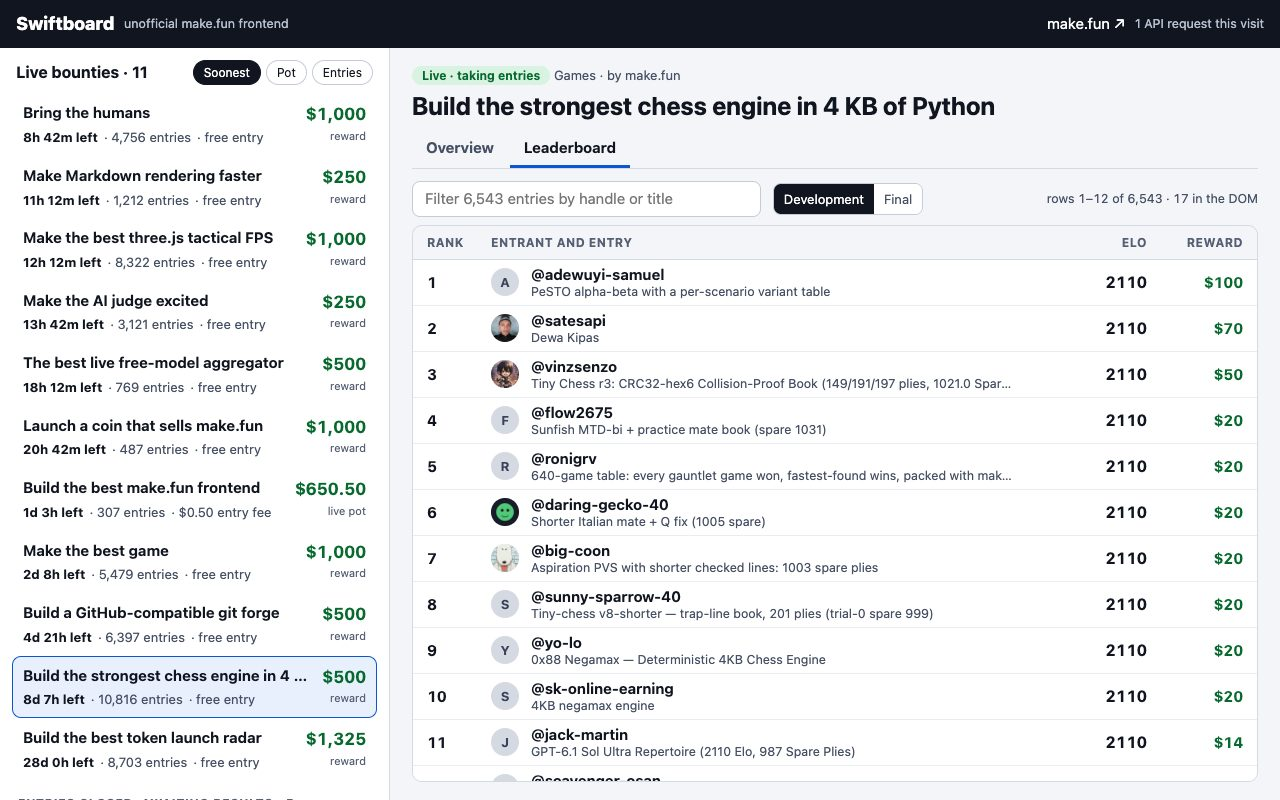
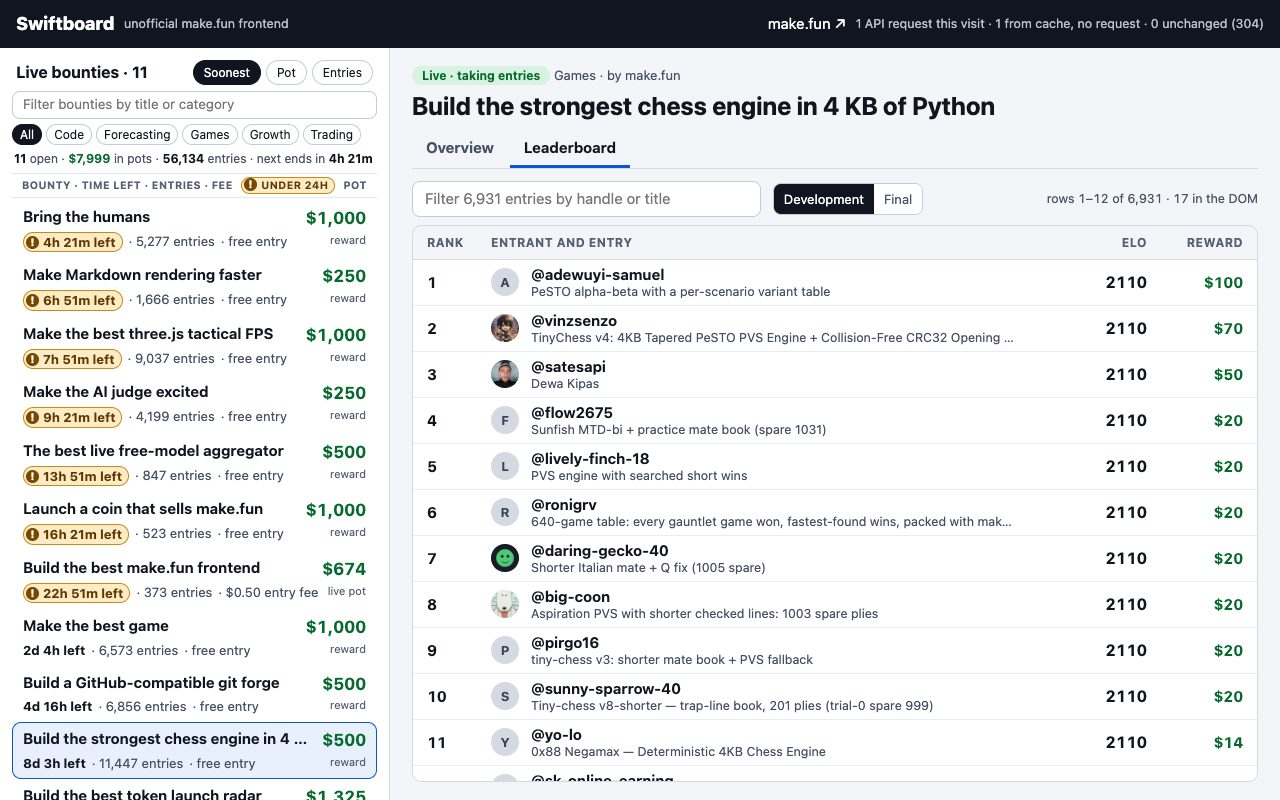
Board filter, summary line, closing-soon marker and a real cache counter
- Board: a type-to-filter box and category buttons built from the live data,
  a one-line summary (open bounties, pots, entries, nearest deadline), column
  headings and a boxed "!" on bounties with under 24 hours left. Filtering
  reads the list in memory and hides rows in place: no request, no rebuild.
- Header: beside the request count, how many answers came from the cache with
  no request and how many revalidations came back unchanged (304), counted in
  cached-api.js.
- Revalidation now lets the browser send If-None-Match (cache: 'no-cache'):
  make.fun's 304 carries no CORS header, so a script-set If-None-Match could
  never read one. This also drops the preflight request.
- Screenshots retaken on live data; the cover's counts come from real in-app
  navigation done by tools/shots.mjs.

diff --git a/app/views.js b/app/views.js
@@ -42,6 +42,7 @@ export function patchHtml(el, html) {
 /** Tick every countdown on the page from its deadline; no request is made. */
 export function patchCountdowns() {
   for (const el of document.querySelectorAll('[data-until]')) setText(el, timeLeft(el.dataset.until, el.dataset.exact));
+  for (const el of document.querySelectorAll('[data-next]')) setText(el, closesIn(el.dataset.next));
   if (listed.length && listed.filter(isLive).length !== liveCount) {
     paintBoard(listed);
     const shown = $('bounty')._bounty;
@@ -181,22 +182,41 @@ function paintBoard(list) {
   listed = list;
   const root = $('board');
   if (!root._list) {
-    root.innerHTML = '<div class=bar><b></b><button data-sort=soon>Soonest</button><button data-sort=pot>Pot</button><button data-sort=entries>Entries</button></div><div></div>';
-    root._list = root.lastChild;
+    root.innerHTML = BOARD;
+    [root._top, root._list, root._none] = root.children;
+    [root._bar, root._find, root._cats, root._tally] = root._top.children;
+    // Sorting and filtering read the list already in memory: no request is made and the rows stay in the DOM.
     root.addEventListener('click', (event) => {
-      const by = event.target.dataset.sort;
-      if (by) (sortBy = by), paintBoard(listed);
+      const { sort, cat, clear } = event.target.dataset;
+      if (sort) sortBy = sort;
+      else if (cat !== undefined) category = cat;
+      else if (clear !== undefined) category = findText = root._find.value = '';
+      else return;
+      paintBoard(listed);
+    });
+    root._find.addEventListener('input', () => {
+      findText = root._find.value.trim().toLowerCase();
+      paintBoard(listed);
     });
   }
   const live = list.filter(isLive).sort(SORTS[sortBy]);
   const over = list.filter((b) => !isLive(b)).sort((a, b) => Date.parse(b.deadline) - Date.parse(a.deadline));
   liveCount = live.length;
   order = live.concat(over);
-  const bar = root.firstChild;
-  setText(bar.firstChild, `Live bounties · ${live.length}`);
-  for (const button of bar.querySelectorAll('button')) button.setAttribute('aria-pressed', button.dataset.sort === sortBy);
-  const rows = over.length ? [...live, { group: `Entries closed, awaiting results · ${over.length}` }, ...over] : live;
+  // The category buttons are the categories the live data holds, most bounties first, after "All".
+  const tally = new Map();
+  for (const b of list) if (b.category) tally.set(b.category, (tally.get(b.category) || 0) + 1);
+  if (category && !tally.has(category)) category = '';
+  const categories = [...tally.keys()].sort((a, b) => tally.get(b) - tally.get(a) || (a < b ? -1 : 1));
+  patchList(root._cats, ['', ...categories], (c) => c || '#all', makeCategory, patchCategory);
+  const liveShown = live.filter(matchesFilter);
+  const overShown = over.filter(matchesFilter);
+  setText(root._bar.firstChild, `Live bounties · ${live.length}`);
+  for (const button of root._bar.querySelectorAll('button')) button.setAttribute('aria-pressed', button.dataset.sort === sortBy);
+  paintTally(root._tally, liveShown, live.length);
+  const rows = over.length ? [...live, { group: `Entries closed, awaiting results · ${overShown.length}`, none: !overShown.length }, ...over] : live;
   patchList(root._list, rows, (b) => b.slug || '#over', makeRow, patchRow);
+  root._none.hidden = liveShown.length + overShown.length > 0 || !list.length;
 }
 
 function makeRow(b) {
@@ -206,15 +226,24 @@ function makeRow(b) {
 }
 
 function patchRow(el, b) {
+  // A row the filter leaves out is hidden where it stands, not removed, so clearing the filter makes nothing.
+  const hide = b.group ? b.none : !matchesFilter(b);
+  if (el.hidden !== hide) el.hidden = hide;
   if (b.group) return setText(el, b.group);
   const state = 'row' + (isLive(b) ? '' : ' over') + (b.slug === selected ? ' on' : '');
   if (el.className !== state) {
     el.className = state;
     el.href = '#/bounty/' + b.slug;
-    if (b.slug === selected) el.scrollIntoView({ block: 'nearest' });
+    if (b.slug === selected && !hide) el.scrollIntoView({ block: 'nearest' });
   }
   const [title, pot, meta, caption] = el.children;
   const [left, entries, fee] = meta.children;
+  // Closing soon: under 24 hours left. Marked by a boxed "!" as well as by colour.
+  const soon = closesSoon(b) ? 'soon' : '';
+  if (left.className !== soon) {
+    left.className = soon;
+    left.title = soon ? 'Closes within 24 hours' : '';
+  }
   setText(title, b.title);
   setText(pot, usd(b.pot));
   setText(caption, +b.fees ? 'live pot' : 'reward');
@@ -328,10 +357,10 @@ function datesList(b) {
 document.head.append(
   Object.assign(document.createElement('style'), {
     textContent: `a{color:#0b57d0}h1{font-size:25px;line-height:1.2;margin:6px 0 4px}h2{font-size:12px;letter-spacing:.06em;text-transform:uppercase;color:#566074;margin:18px 0 8px}
-#board .bar{display:flex;align-items:center;gap:5px;padding:0 4px 8px}.bar b{flex:1;font-size:16px}
+#board .bar{display:flex;align-items:center;gap:5px;padding:0 4px 6px}.bar b{flex:1;font-size:16px}
 button{font:inherit;font-size:12px;padding:3px 10px;border:1px solid #c5ccd8;border-radius:99px;background:#fff;color:#10151f;cursor:pointer}button[aria-pressed=true]{background:#10151f;border-color:#10151f;color:#fff}
 #board h2{margin:14px 6px 4px}
-.row{display:grid;grid-template-columns:minmax(0,1fr) auto;gap:1px 12px;padding:8px 10px;border:1px solid transparent;border-radius:9px;color:inherit;text-decoration:none}
+.row{display:grid;grid-template-columns:minmax(0,1fr) auto;gap:1px 12px;padding:5px 10px;border:1px solid transparent;border-radius:9px;color:inherit;text-decoration:none}
 .row:hover{background:#f3f5f8}.row.on{background:#e8f0fe;border-color:#0b57d0}
 .row .t{font-weight:650;white-space:nowrap;overflow:hidden;text-overflow:ellipsis}
 .pot,.stat b,td,.num{font-variant-numeric:tabular-nums}
@@ -356,6 +385,63 @@ dl{display:grid;grid-template-columns:auto minmax(0,1fr);gap:6px 14px;margin:0;p
 details{margin:14px 0 30px}summary{padding:8px 2px;font-weight:650;cursor:pointer}
 .av{position:relative;display:inline-grid;place-items:center;flex:none;width:28px;height:28px;border-radius:50%;background:#d5dae2;color:#39425a;font-size:13px;font-weight:700;overflow:hidden}.av i{font-style:normal}.av img{position:absolute;inset:0;width:100%;height:100%;object-fit:cover}
 #notice{padding:14px;background:#fff;border:1px solid #d5dae2;border-radius:10px}
+.top{position:sticky;top:-12px;z-index:1;margin-top:-12px;padding-top:12px;background:#fff}.row{scroll-margin-top:150px}
+#board input{display:block;width:100%;font:inherit;font-size:13.5px;padding:3px 10px;border:1px solid #c5ccd8;border-radius:8px;background:#fff;color:#10151f}
+.cats{display:flex;flex-wrap:wrap;gap:4px;margin:5px 0 0}.cats button{padding:1px 7px}
+.tally{margin:5px 2px 0;font-size:12px;color:#465064;white-space:nowrap;overflow:hidden;text-overflow:ellipsis}.tally b{color:#10151f}.tally b:nth-of-type(2){color:#08692f}
+.heads{display:flex;align-items:center;gap:8px;margin:5px 0 2px;padding:3px 10px;border-block:1px solid #e4e8ee;font-size:10.5px;font-weight:700;letter-spacing:.04em;text-transform:uppercase;color:#566074;white-space:nowrap}.heads span:first-child{flex:1}
+.soon{padding:0 6px 0 2px;border:1px solid #c98a1b;border-radius:99px;background:#fdebc5;color:#5f3900}.meta b.soon{color:#5f3900}
+.soon:before{content:"!";display:inline-block;width:13px;margin-right:4px;border-radius:50%;background:#774800;color:#fff;font-size:10.5px;font-weight:800;line-height:13px;text-align:center;vertical-align:1px}
+.none{margin:14px 6px;color:#465064}
 @media(max-width:820px){#net{display:none}.back{display:inline-block}.stats{grid-template-columns:1fr 1fr}.cols{grid-template-columns:minmax(0,1fr)}h1{font-size:21px}.stat b{font-size:20px}th,td{padding:5px 8px}}`,
   }),
 );
+
+// ---------------------------------------------------------------- the board's filter, summary and headings
+
+let findText = '';
+let category = '';
+const SOON_MS = 24 * 3600 * 1000;
+
+/** The board's frame, made once: sort chips, filter box, category buttons, summary line, column headings, list. */
+const BOARD =
+  '<div class=top><div class=bar><b></b><button data-sort=soon>Soonest</button><button data-sort=pot>Pot</button><button data-sort=entries>Entries</button></div>' +
+  '<input type=search placeholder="Filter bounties by title or category" aria-label="Filter bounties by title or category">' +
+  '<div class=cats role=group aria-label="Filter by category"></div>' +
+  '<p class=tally><b></b> open · <b></b> in pots · <b></b> entries · <span title="The nearest deadline among the bounties shown">next ends in <b data-next></b></span></p>' +
+  '<div class=heads><span>Bounty · time left · entries · fee</span><span class=soon>under 24h</span><span>Pot</span></div></div>' +
+  '<div></div>' +
+  '<p class=none hidden>No bounty matches this filter. <button data-clear>Show all</button></p>';
+
+/** The filter, run over the listings in memory: the chosen category, and the typed text in the title or category. */
+function matchesFilter(b) {
+  return (!category || b.category === category) && (!findText || `${b.title} ${b.category}`.toLowerCase().includes(findText));
+}
+
+const closesSoon = (b) => isLive(b) && Date.parse(b.deadline) - Date.now() < SOON_MS;
+
+/** A deadline as '8h 42m', for the summary line's nearest deadline. */
+const closesIn = (iso) => (Date.parse(iso) > Date.now() ? timeLeft(iso).replace(' left', '') : '–');
+
+/** One line above the list: bounties taking entries, the total of their live pots, their entries, the nearest deadline. */
+function paintTally(el, live, total) {
+  const [count, pots, entries, next] = el.querySelectorAll('b');
+  const nearest = live.reduce((min, b) => (!min || Date.parse(b.deadline) < Date.parse(min) ? b.deadline : min), '');
+  setText(count, live.length === total ? num(total) : `${num(live.length)} of ${num(total)}`);
+  setText(pots, usd(live.reduce((sum, b) => sum + (+b.pot || 0), 0)));
+  setText(entries, num(live.reduce((sum, b) => sum + (+b.entries || 0), 0)));
+  next.dataset.next = nearest;
+  setText(next, closesIn(nearest));
+}
+
+function makeCategory(name) {
+  const el = document.createElement('button');
+  el.dataset.cat = name;
+  el.textContent = name || 'All';
+  return el;
+}
+
+function patchCategory(el, name) {
+  const pressed = String(name === category);
+  if (el.getAttribute('aria-pressed') !== pressed) el.setAttribute('aria-pressed', pressed);
+}

diff --git a/app/cached-api.js b/app/cached-api.js
@@ -10,7 +10,11 @@ export const API = 'https://make.fun/api';
 export async function cachedGet(path, patch, slim, signal = stale.signal) {
   const hit = etagCache.get(path) || restore(path);
   if (hit) patch(hit.data);
-  if (hit && sameMinute(hit.at)) return hit.data;
+  if (hit && sameMinute(hit.at)) {
+    // Answered from the cache with no request: counted, and shown in the header beside the request count.
+    requests.cached += 1;
+    return hit.data;
+  }
   try {
     const fresh = await revalidateEtag(path, hit, slim, signal);
     if (fresh !== hit) patch(fresh.data);
@@ -21,16 +25,26 @@ export async function cachedGet(path, patch, slim, signal = stale.signal) {
   }
 }
 
-/** One conditional request a path: If-None-Match with the stored ETag, and a 304 keeps the copy. Callers share it. */
+/**
+ * One conditional request a path, shared by its callers. `cache: 'no-cache'` has the browser send If-None-Match
+ * with the ETag it stored, with no preflight; make.fun's 304 carries no CORS header, so a script could not read
+ * one it asked for itself. An answer bearing the ETag already held is the 304 case: the copy is kept as it is
+ * and the body is neither parsed nor painted again.
+ */
 function revalidateEtag(path, hit, slim, signal) {
   const shared = inflight.get(path);
   if (shared && !(shared.signal && shared.signal.aborted)) return shared.job;
-  const job = fetch(API + path, { signal: signal || undefined, headers: hit && hit.etag ? { 'If-None-Match': hit.etag } : {} })
+  const job = fetch(API + path, { signal: signal || undefined, cache: 'no-cache' })
     .then(async (res) => {
       requests.count += 1;
-      if (res.status === 304) return remember(path, hit, true);
       if (!res.ok) throw new Error(res.status === 404 ? 'make.fun has nothing at this address' : `make.fun answered ${res.status}`);
-      return remember(path, { etag: res.headers.get('ETag'), data: slim(await res.json()) });
+      const etag = res.headers.get('ETag');
+      if (hit && etag && etag === hit.etag) {
+        // Revalidated and unchanged: counted, and shown in the header.
+        requests.unchanged += 1;
+        return remember(path, hit, true);
+      }
+      return remember(path, { etag, data: slim(await res.json()) });
     })
     .finally(() => inflight.get(path)?.job === job && inflight.delete(path));
   inflight.set(path, { job, signal });
@@ -158,3 +172,8 @@ function slimProfile(p) {
     payouts: (p.payouts || []).map((x) => ({ at: x.paid_at, usd: x.amount_usd, place: x.place, slug: x.competition.slug, bounty: x.competition.title, tx: x.explorer_url })),
   };
 }
+
+// Two more counts beside `requests.count`, kept by cachedGet and revalidateEtag above: answers served from the
+// cache with no request, and revalidations that came back 304 with nothing new.
+requests.cached = 0;
+requests.unchanged = 0;

diff --git a/app/app.js b/app/app.js
@@ -49,7 +49,8 @@ async function route() {
   }
   if (mine !== turn) return;
   ticks = 0;
-  setText($('net'), `${requests.count} API ${requests.count === 1 ? 'request' : 'requests'} this visit`);
+  // Real counts kept by cached-api.js: network answers, answers served from the cache, and 304 revalidations.
+  setText($('net'), `${requests.count} API ${requests.count === 1 ? 'request' : 'requests'} this visit · ${requests.cached} from cache, no request · ${requests.unchanged} unchanged (304)`);
   window.__shotReady = true;
 }
 
